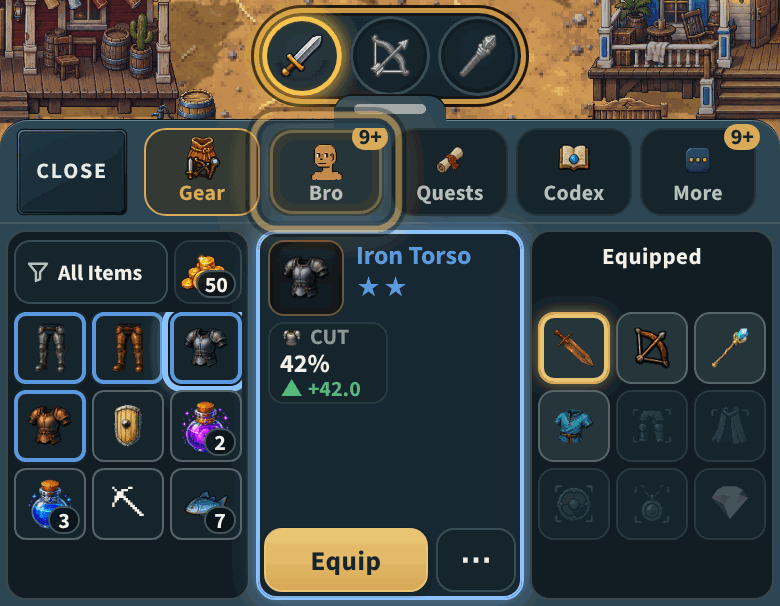
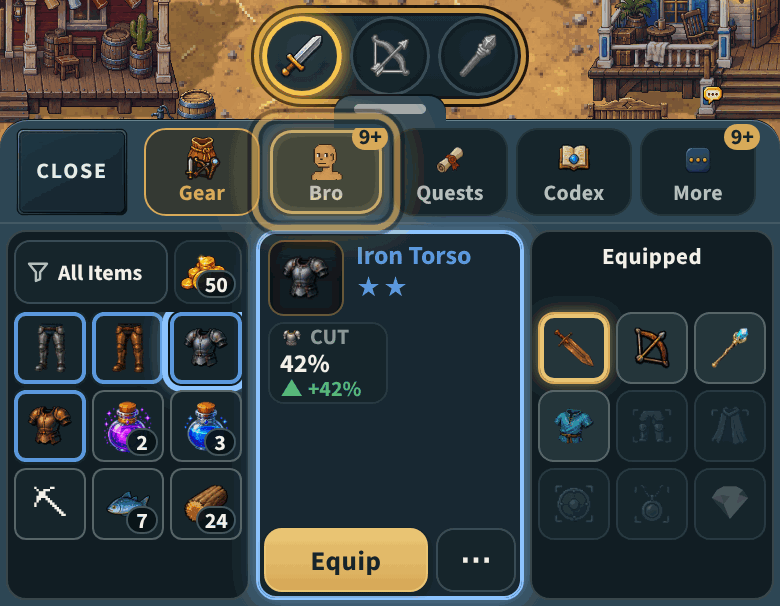
v2.3.4191: a stat's change reads like its value ("+42%", "+0.2/s", "+1.2"), its unit and no ".0"
Claude-Session: https://claude.ai/code/session_01LccHakp6mNhVxMXVK6DB1e

diff --git a/src/ui/mobile/dash/gearStats.js b/src/ui/mobile/dash/gearStats.js
@@ -61,7 +61,7 @@ export function weaponRows(R, wpn) {
     { k: 'Damage', v: String(range.text).replace('-', '–'), n: (range.min + range.max) / 2 },
     { k: 'DPS', v: fmt1(safe(() => calcDisplayDps(R || {}, wpn), 0)), n: Number(safe(() => calcDisplayDps(R || {}, wpn), 0)) || 0, d: 1 },
   ];
-  if (range.cdMs) rows.push({ k: 'Speed', v: fmt1(1000 / range.cdMs) + '/s', n: 1000 / range.cdMs, d: 1 });
+  if (range.cdMs) rows.push({ k: 'Speed', v: fmt1(1000 / range.cdMs) + '/s', n: 1000 / range.cdMs, d: 1, u: '/s' });
   const reach = safe(() => reachTiles(R || {}, wpn), 0);
   if (reach) rows.push({ k: 'Range', v: fmt1(reach), n: reach, d: 1 });
   return rows;
@@ -72,7 +72,7 @@ export function shieldRows(sh) {
   if (!sh) return [];
   const ss = safe(() => getShieldStats(sh), null);
   const block = safe(() => calcBlockReduction(0, sh), 0);
-  const rows = [{ k: 'Block', v: Math.round(block * 100) + '%', n: Math.round(block * 100) }];
+  const rows = [{ k: 'Block', v: Math.round(block * 100) + '%', n: Math.round(block * 100), u: '%' }];
   if (ss && ss.staminaBonus) rows.push({ k: 'Stamina', v: '+' + ss.staminaBonus, n: ss.staminaBonus });
   if (ss && ss.flatDef) rows.push({ k: 'Defence', v: '+' + fmt1(ss.flatDef), n: ss.flatDef, d: 1 });
   return rows;
@@ -82,7 +82,7 @@ export function shieldRows(sh) {
 export function armourRows(piece, slot) {
   if (!piece) return [];
   const dr = safe(() => getArmorPieceDr(piece, slot), 0);
-  return [{ k: 'Damage cut', v: fmt1(dr * 100) + '%', n: dr * 100, d: 1 }];
+  return [{ k: 'Damage cut', v: fmt1(dr * 100) + '%', n: dr * 100, d: 1, u: '%' }];
 }
 
 /** The rows of whatever a Gear-tab target is.  `t` is one of
@@ -101,13 +101,13 @@ export function rowsFor(R, t) {
  *  against nothing ('—'). */
 /** v2.3.4191: the Gear tab's comparison -- compareRows, with a stat the worn
  *  piece lacks (or an empty slot) read as 0, so a gain over nothing shows as
- *  the gain it is ("+42.0", green), never as no change.  The orchestrator's
+ *  the gain it is ("+42%", green), never as no change.  The orchestrator's
  *  call (2026-11-04): "when the worn piece LACKS the stat, read it as 0 and
  *  SHOW the green ▲ +42%"; equal stays "=" ("--" on the pill). */
 export function gainRows(oldRows, newRows) {
   const have = Object.create(null);
   for (const r of oldRows || []) have[r.k] = 1;
-  const zeros = (newRows || []).filter((r) => !have[r.k] && Number.isFinite(r.n)).map((r) => ({ k: r.k, v: '0', n: 0, d: r.d }));
+  const zeros = (newRows || []).filter((r) => !have[r.k] && Number.isFinite(r.n)).map((r) => ({ k: r.k, v: '0', n: 0, d: r.d, u: r.u }));
   return compareRows([...(oldRows || []), ...zeros], newRows);
 }
 
@@ -123,7 +123,11 @@ export function compareRows(oldRows, newRows) {
     const step = dec ? 10 : 1;
     const diffN = o ? Math.round((r.n - o.n) * step) / step : null;
     const tone = diffN == null ? 0 : diffN > 0 ? 1 : diffN < 0 ? -1 : 0;
-    const mag = diffN == null ? '' : (dec ? Math.abs(diffN).toFixed(dec) : String(Math.abs(diffN)));
+    /* v2.3.4191: the change reads like its value -- the value's own
+       formatter (fmt1: no ".0") and its unit (`u`: '%', '/s'), so "42%"
+       shows "+42%", never "+42.0" */
+    const unit = r.u || (o && o.u) || '';
+    const mag = diffN == null ? '' : (dec ? fmt1(Math.abs(diffN)) : String(Math.abs(diffN))) + unit;
     out.push({
       k: r.k, old: o ? o.v : '—', now: r.v,
       diff: diffN == null ? '' : diffN === 0 ? '=' : (diffN > 0 ? '+' : '−') + mag,
